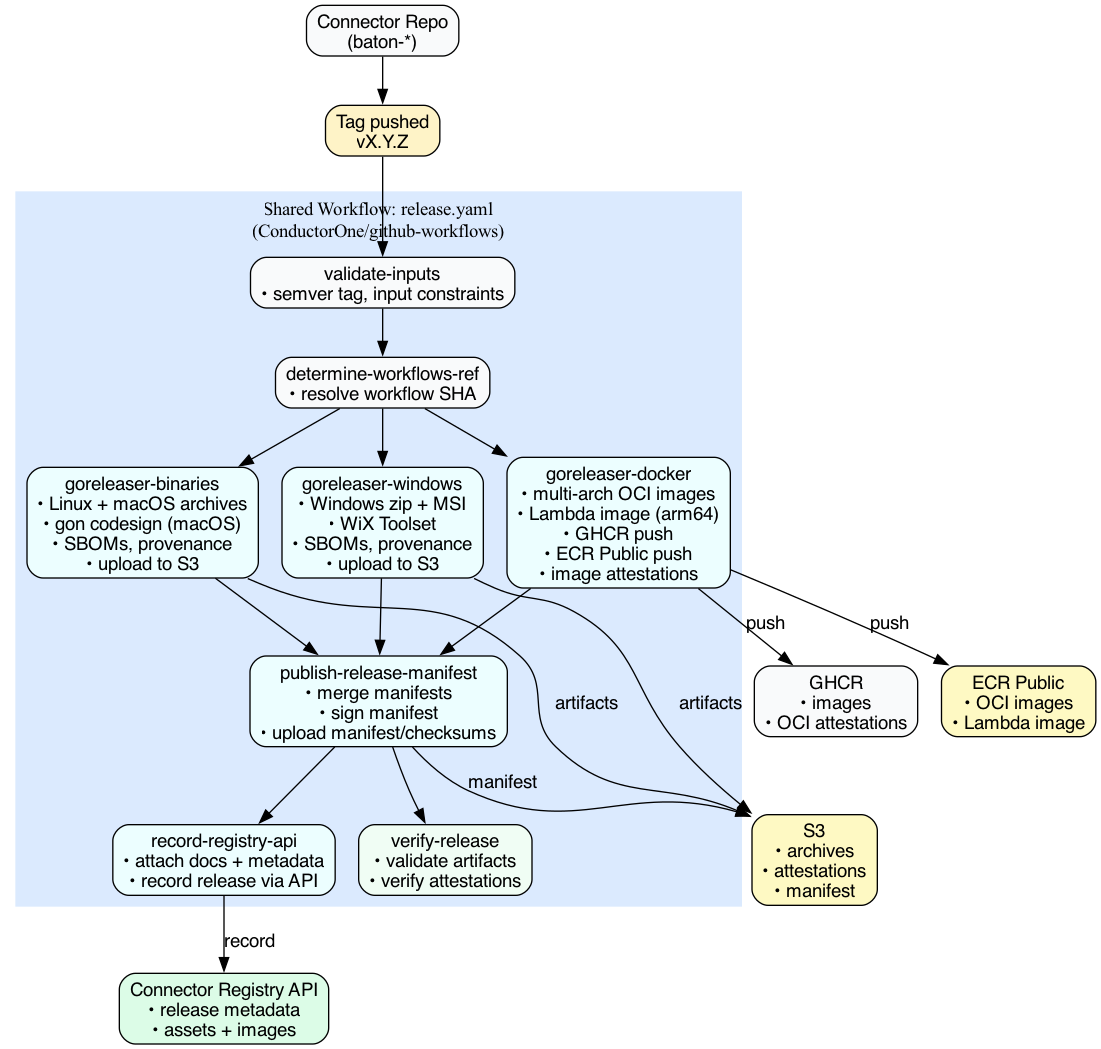
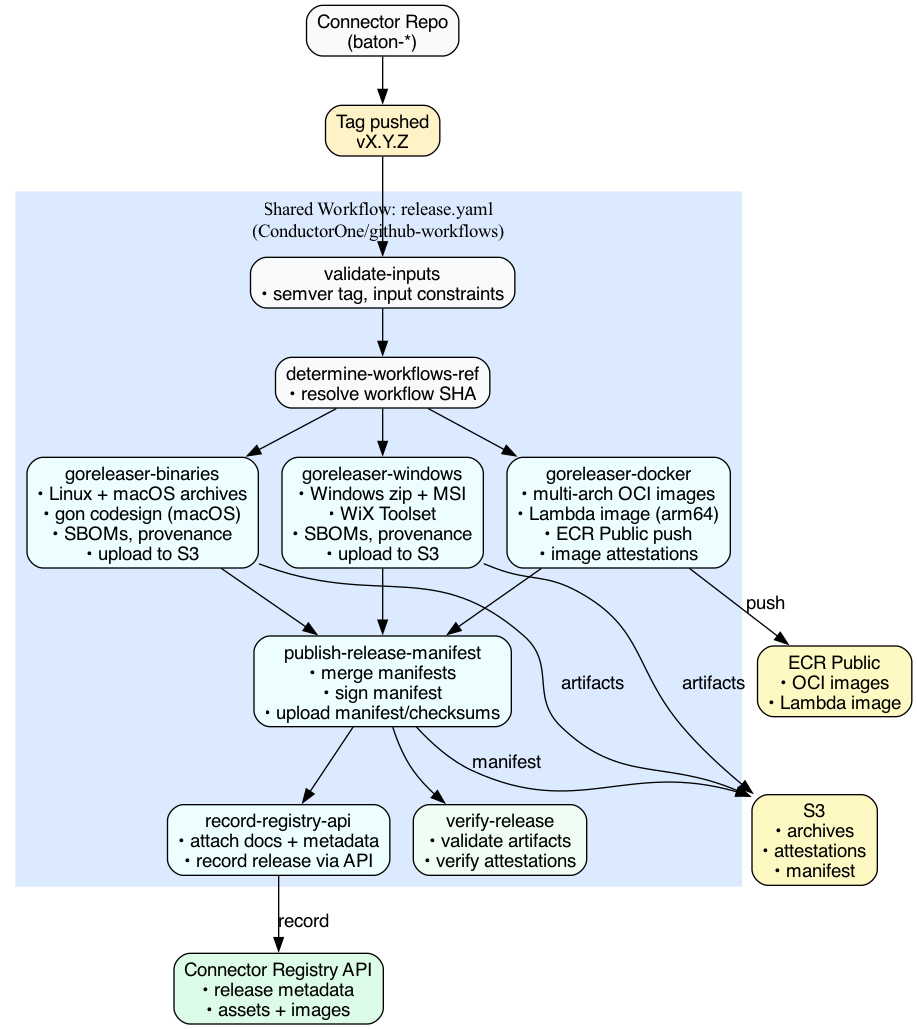
Stop publishing release images to GHCR

Changed region(s): [[0.0, 0.0, 1.0, 1.0]]

diff --git a/cmd/extract-images/main.go b/cmd/extract-images/main.go
@@ -31,7 +31,7 @@ func main() {
 	flag.StringVar(&lambdaDigestFile, "lambda-digest-file", "", "Path to Lambda digest file (if not provided, will be constructed from repo-name, tag, and lambda-asset-dir)")
 	flag.StringVar(&repoName, "repo-name", "", "Repository name")
 	flag.StringVar(&tag, "tag", "", "Release tag (e.g., v0.1.65 or 0.1.65)")
-	flag.BoolVar(&includePublic, "include-public", true, "Extract GHCR and ECR public image metadata")
+	flag.BoolVar(&includePublic, "include-public", true, "Extract ECR public image metadata")
 	flag.BoolVar(&includeLambda, "include-lambda", false, "Extract private Lambda image metadata")
 	flag.Parse()
 
@@ -65,17 +65,11 @@ func main() {
 			os.Exit(1)
 		}
 
-		foundGHCR, foundECR := extractPublicImages(content, version, images)
-		if !foundGHCR && !foundECR {
-			fmt.Fprintf(os.Stderr, "extract-images: ::error::Could not find GHCR or ECR public index image in %s\n", digestFile)
+		foundECR := extractPublicImages(content, version, images)
+		if !foundECR {
+			fmt.Fprintf(os.Stderr, "extract-images: ::error::Could not find ECR public index image in %s\n", digestFile)
 			fmt.Fprintf(os.Stderr, "extract-images: Contents of digest file:\n%s\n", content)
 			os.Exit(1)
-		}
-		if !foundGHCR {
-			fmt.Fprintf(os.Stderr, "extract-images: ::warning::Could not find GHCR index image in %s\n", digestFile)
-		}
-		if !foundECR {
-			fmt.Fprintf(os.Stderr, "extract-images: ::warning::Could not find ECR public index image in %s\n", digestFile)
 		}
 	}
 
@@ -118,8 +112,8 @@ func digestPath(assetDir, repoName, version string) string {
 	return fmt.Sprintf("%s/%s_%s_digests.txt", assetDir, repoName, version)
 }
 
-func extractPublicImages(content []byte, version string, images map[string]*pb.Image) (bool, bool) {
-	var foundGHCR, foundECR bool
+func extractPublicImages(content []byte, version string, images map[string]*pb.Image) bool {
+	var foundECR bool
 	for _, line := range parseDigestLines(content) {
 		// Only capture the multi-arch index images (tagged with just version, not version-arch)
 		if !strings.HasSuffix(line.ref, fmt.Sprintf(":%s", version)) {
@@ -131,17 +125,7 @@ func extractPublicImages(content []byte, version string, images map[string]*pb.I
 			continue
 		}
 
-		if strings.HasPrefix(line.ref, "ghcr.io/conductorone/") {
-			isIndex := true
-			images["ghcr"] = pb.Image_builder{
-				Ref:     &line.ref,
-				Digest:  &line.digest,
-				Tag:     &version,
-				Uri:     &uri,
-				IsIndex: &isIndex,
-			}.Build()
-			foundGHCR = true
-		} else if strings.HasPrefix(line.ref, "public.ecr.aws/conductorone/") {
+		if strings.HasPrefix(line.ref, "public.ecr.aws/conductorone/") {
 			isIndex := true
 			images["ecrPublic"] = pb.Image_builder{
 				Ref:     &line.ref,
@@ -154,7 +138,7 @@ func extractPublicImages(content []byte, version string, images map[string]*pb.I
 		}
 	}
 
-	return foundGHCR, foundECR
+	return foundECR
 }
 
 func extractLambdaImage(content []byte, repoName, version string, images map[string]*pb.Image) bool {

diff --git a/cmd/extract-images/main_test.go b/cmd/extract-images/main_test.go
@@ -9,20 +9,12 @@ import (
 
 func TestExtractPublicImages(t *testing.T) {
 	images := make(map[string]*pb.Image)
-	foundGHCR, foundECR := extractPublicImages([]byte(`
-aaa111  ghcr.io/conductorone/baton-example:0.1.2
-bbb222  ghcr.io/conductorone/baton-example:0.1.2-amd64
+	foundECR := extractPublicImages([]byte(`
 ccc333  public.ecr.aws/conductorone/baton-example:0.1.2
 `), "0.1.2", images)
 
-	if !foundGHCR || !foundECR {
-		t.Fatalf("foundGHCR=%t foundECR=%t, want both true", foundGHCR, foundECR)
-	}
-	if images["ghcr"].GetDigest() != "sha256:aaa111" {
-		t.Fatalf("ghcr digest = %q", images["ghcr"].GetDigest())
-	}
-	if !images["ghcr"].GetIsIndex() {
-		t.Fatal("ghcr image should be marked as an index")
+	if !foundECR {
+		t.Fatal("ECR public image was not found")
 	}
 	if images["ecrPublic"].GetUri() != "public.ecr.aws/conductorone/baton-example@sha256:ccc333" {
 		t.Fatalf("ecrPublic uri = %q", images["ecrPublic"].GetUri())
@@ -61,9 +53,9 @@ func TestMarshalImagesSortsKeys(t *testing.T) {
 			Digest:  strPtr("sha256:lambda"),
 			IsIndex: boolPtr(false),
 		}.Build(),
-		"ghcr": pb.Image_builder{
-			Ref:     strPtr("ghcr.io/conductorone/baton-example:0.1.2"),
-			Digest:  strPtr("sha256:ghcr"),
+		"ecrPublic": pb.Image_builder{
+			Ref:     strPtr("public.ecr.aws/conductorone/baton-example:0.1.2"),
+			Digest:  strPtr("sha256:ecr"),
 			IsIndex: &isIndex,
 		}.Build(),
 	}
@@ -80,8 +72,8 @@ func TestMarshalImagesSortsKeys(t *testing.T) {
 	if len(decoded) != 2 {
 		t.Fatalf("decoded keys = %d, want 2", len(decoded))
 	}
-	if got[4:10] != `"ghcr"` {
-		t.Fatalf("first key was not ghcr in sorted output:\n%s", got)
+	if got[4:15] != `"ecrPublic"` {
+		t.Fatalf("first key was not ecrPublic in sorted output:\n%s", got)
 	}
 }
 

diff --git a/cmd/record-release/main_test.go b/cmd/record-release/main_test.go
@@ -67,11 +67,6 @@ func TestTransformImagesAppliesManifestImageAttestation(t *testing.T) {
 				Digest:  strPtr("sha256:ecr"),
 				IsIndex: &isIndex,
 			}.Build(),
-			"ghcr": pb.Image_builder{
-				Ref:     strPtr("ghcr.io/example/baton-example:v1.2.3"),
-				Digest:  strPtr("sha256:ghcr"),
-				IsIndex: &isIndex,
-			}.Build(),
 		},
 	}.Build()
 
@@ -117,8 +112,8 @@ func TestRecordReleaseRequestMarshalsAttestations(t *testing.T) {
 			},
 		},
 		Images: map[string]*ReleaseImage{
-			"ghcr": {
-				Platform:     "ghcr",
+			"ecrPublic": {
+				Platform:     "ecrPublic",
 				Attestations: []*ReleaseAttestation{{Type: slsaProvenance}},
 			},
 		},
@@ -147,11 +142,11 @@ func TestRecordReleaseRequestMarshalsAttestations(t *testing.T) {
 	if got.Assets["linux-amd64"].Attestations[0].URL == "" {
 		t.Fatal("asset attestation URL was not marshaled")
 	}
-	if len(got.Images["ghcr"].Attestations) != 1 {
-		t.Fatalf("image attestations = %#v, want one entry", got.Images["ghcr"].Attestations)
+	if len(got.Images["ecrPublic"].Attestations) != 1 {
+		t.Fatalf("image attestations = %#v, want one entry", got.Images["ecrPublic"].Attestations)
 	}
-	if got.Images["ghcr"].Attestations[0].URL != "" {
-		t.Fatalf("image attestation URL = %q, want empty", got.Images["ghcr"].Attestations[0].URL)
+	if got.Images["ecrPublic"].Attestations[0].URL != "" {
+		t.Fatalf("image attestation URL = %q, want empty", got.Images["ecrPublic"].Attestations[0].URL)
 	}
 }
 

diff --git a/pb/artifacts/v1/manifest.pb.go b/pb/artifacts/v1/manifest.pb.go
@@ -334,8 +334,8 @@ type Manifest_builder struct {
 	// assets is a map of platform/type identifiers to asset metadata.
 	// Keys are platform identifiers like "darwin-arm64", "linux-amd64", "windows-amd64", "checksums"
 	Assets map[string]*Asset
-	// images is a map of registry identifiers to container image metadata.
-	// Keys are registry identifiers like "ghcr", "ecrPublic"
+	// images is a map of image identifiers to container image metadata.
+	// Keys are image identifiers like "ecrPublic", "lambda-arm64"
 	Images map[string]*Image
 	// signature_href is the URL to the manifest signature file (manifest.json.sig)
 	SignatureHref *string
@@ -902,7 +902,7 @@ func (x *Image) ClearIsIndex() {
 type Image_builder struct {
 	_ [0]func() // Prevents comparability and use of unkeyed literals for the builder.
 
-	// ref is the tag-based image reference (e.g., "ghcr.io/conductorone/baton-ukg:0.1.98")
+	// ref is the tag-based image reference (e.g., "public.ecr.aws/conductorone/baton-ukg:0.1.98")
 	Ref *string
 	// digest is the immutable image digest in the format "sha256:<hex>" (e.g., "sha256:abc123...")
 	Digest *string

diff --git a/docs/release-workflow.md b/docs/release-workflow.md
@@ -13,7 +13,7 @@ When a tag is pushed to a connector repository, the shared release workflow:
 3. Builds multi-arch Docker images
 4. Signs all artifacts with Sigstore (keyless)
 5. Generates SLSA provenance attestations
-6. Publishes to S3, GHCR, and ECR Public
+6. Publishes to S3 and ECR Public
 7. Records the release in the connector registry API
 
 ## Jobs
@@ -66,11 +66,10 @@ Builds Windows zip and MSI installer:
 Builds and publishes container images:
 
 - Multi-arch Docker images (amd64/arm64)
-- Pushes to GHCR (public registry)
 - Pushes to ECR Public (for Lambda deployment)
 - Attaches provenance attestations to images (OCI referrers)
 
-**Outputs:** GHCR and ECR Public images with attached attestations
+**Outputs:** ECR Public images with attached attestations
 
 ### publish-release-manifest
 
@@ -161,7 +160,7 @@ cosign verify-attestation \
   --type https://slsa.dev/provenance/v1 \
   --certificate-oidc-issuer https://token.actions.githubusercontent.com \
   --certificate-identity-regexp 'https://github.com/ConductorOne/github-workflows/.github/workflows/release.yaml@.*' \
-  ghcr.io/conductorone/baton-foo@sha256:abc123
+  public.ecr.aws/conductorone/baton-foo@sha256:abc123
 ```
 
 ### Certificate Identity
@@ -249,7 +248,7 @@ The `scripts/validate-release-artifacts.sh` script validates:
 - Manifest structure and version match
 - All binary assets are downloadable
 - Provenance and SBOM attestations exist and verify
-- GHCR and ECR Public image attestations (if present)
+- ECR Public image attestations (if present)
 - Manifest signature (if present)
 
 ```bash
@@ -305,7 +304,6 @@ Test the MSI installer on an actual Windows machine:
 ### Common Issues
 
 - **Cosign version:** Ensure using latest cosign (`cosign version`)
-- **GHCR access:** May need `docker login ghcr.io` for image verification
 - **MSI UpgradeCode:** If upgrades don't work, verify UpgradeCode is consistent across versions
 
 ## Future Work